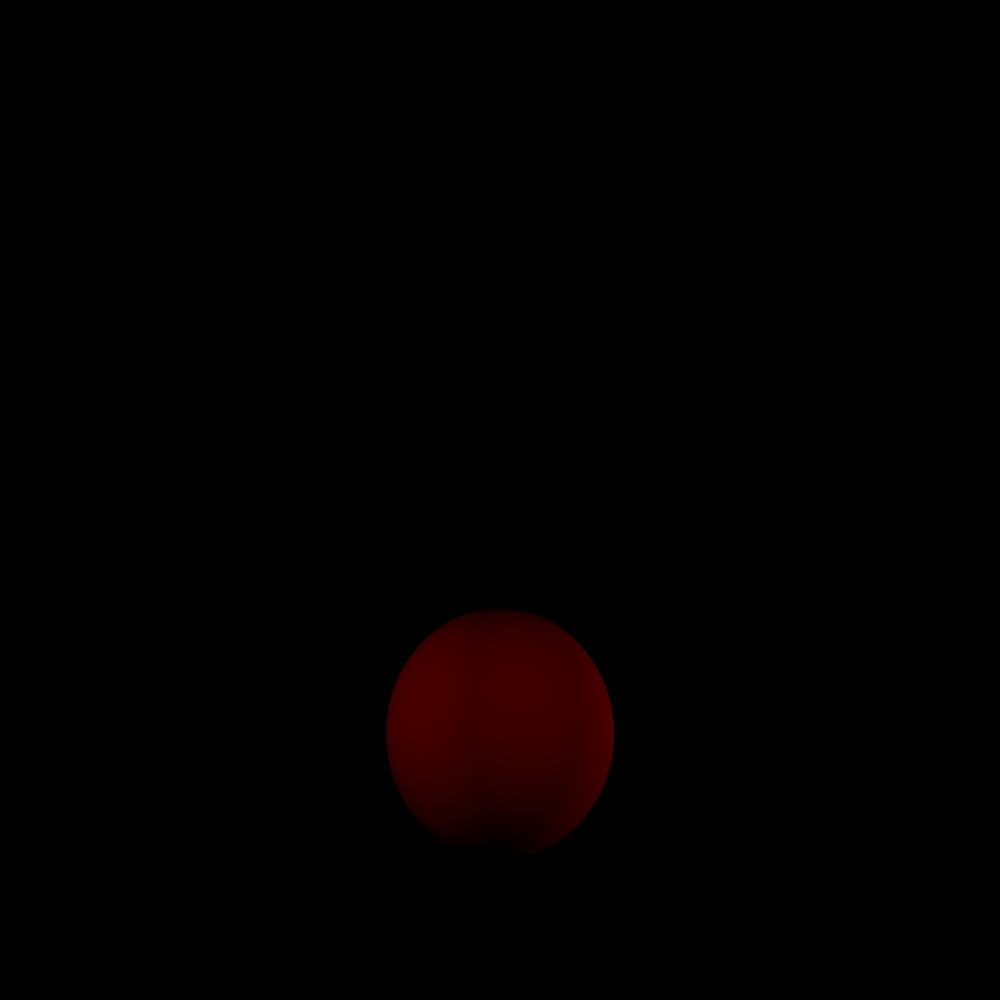
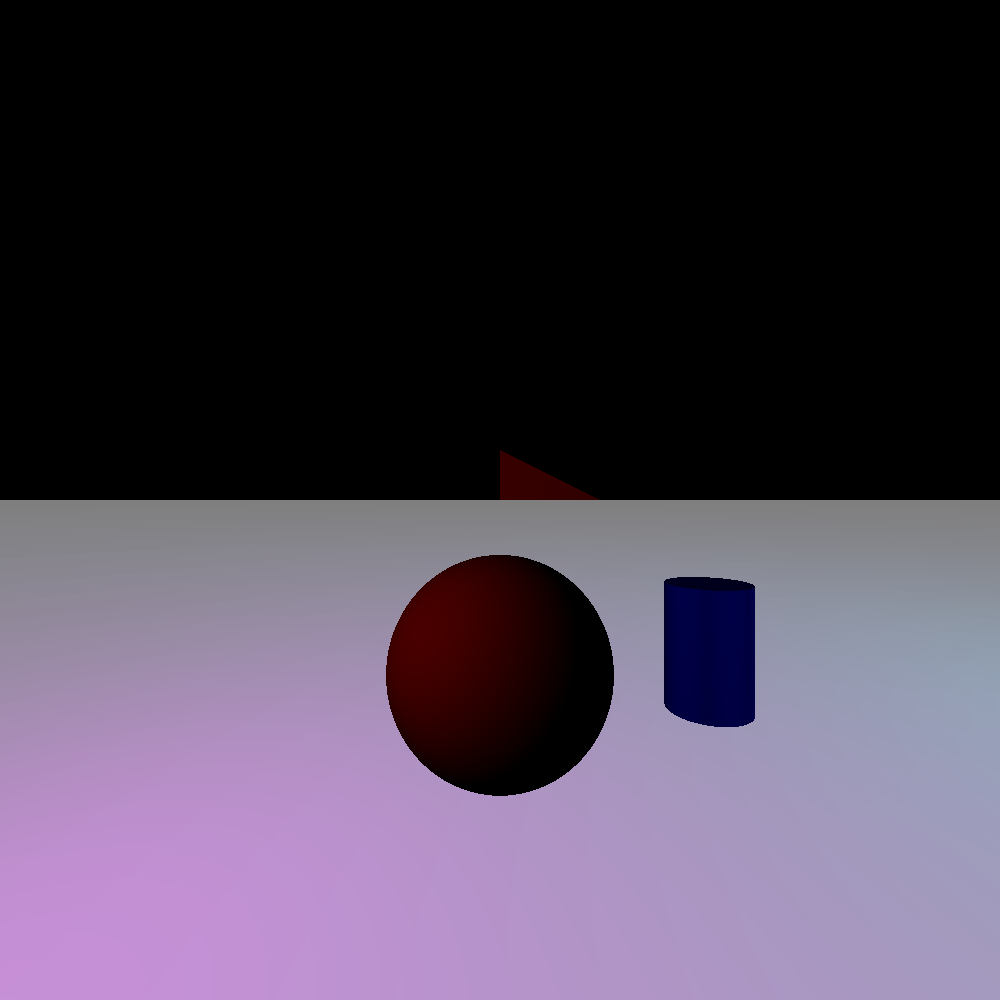
intersections werken overal

diff --git a/src/main/Renderer.java b/src/main/Renderer.java
@@ -24,6 +24,7 @@ import shape.Intersection;
 import shape.Plane;
 import shape.Shape;
 import shape.Sphere;
+import shape.Triangle;
 import camera.PerspectiveCamera;
 
 /**
@@ -79,7 +80,7 @@ public class Renderer {
 
 		// initialize the camera
 		PerspectiveCamera camera = new PerspectiveCamera(width, height,
-				new Point(0,1,0), new Vector(0, 0, 1), new Vector(0, 1, 0), 90);
+				new Point(), new Vector(0, 0, 1), new Vector(0, 1, 0), 90);
 
 		// initialize the graphical user interface
 		ImagePanel panel = new ImagePanel(width, height);
@@ -98,7 +99,7 @@ public class Renderer {
 		Transformation t1 = Transformation.createTranslation(0, -1, 1);
 		Transformation tc = Transformation.createTranslation(0, 0, 10).append(
 				Transformation.createRotationX(-45));
-		Transformation ts = Transformation.createTranslation(-2.0, 0.0, 10);
+		Transformation ts = Transformation.createTranslation(0.0, 0.0, 10);
 		Transformation tt = Transformation.createTranslation(0.0, -3.0, 9);
 		Transformation t2 = Transformation.createTranslation(0, -4, 10);
 		Transformation t3 = Transformation.createTranslation(-4, -4, 3);
@@ -107,16 +108,16 @@ public class Renderer {
 		Transformation t6 = Transformation.createTranslation(5, -5, 12);
 		List<Shape> shapes = new ArrayList<Shape>();
 		List<PointLight> lights = new ArrayList<PointLight>();
-		PointLight light = new PointLight(new Point(20.0, 1.0, 4.0), Color.WHITE);
-		PointLight light2 = new PointLight(new Point(-5.0, 1.0, 4.0), Color.WHITE);
+		PointLight light = new PointLight(new Point(20.0, 1.0, 4.0), Color.CYAN);
+		PointLight light2 = new PointLight(new Point(-5.0, 1.0, 4.0), Color.MAGENTA);
 		shapes.add(new Sphere(tt, 2, d1));
 //		 shapes.add(new Sphere(tt, 3,d2));
 //		 shapes.add(new Sphere(t2, 3, d2));
 //		 shapes.add(new Sphere(t4, 4, d2));
 		// shapes.add(new Sphere(t5, 4));
-//		shapes.add(new Plane(new Vector(0.0, 1.0, 0.0), d3, new Point(0.0,-5.0,0.0),id));
-//		shapes.add(new Triangle(id, new Point(0.0,0.0,3.0), new Point(0.0, 1.0, 3.0), new Point(1.0, 0.0, 0.0), d1));
-//		shapes.add(new Cylinder(t6, d2, 3, 1));
+		shapes.add(new Plane(new Vector(0.0, 1.0, 0.0), d3, new Point(0.0,-5.0,0.0),id));
+		shapes.add(new Triangle(ts, new Point(0.0,0.0,0.0), new Point(0.0, 1.0, 0.0), new Point(1.0, 0.0, 0.0), d1));
+		shapes.add(new Cylinder(t6, d2, 3, 1));
 		lights.add(light);
 		lights.add(light2);
 
@@ -132,7 +133,7 @@ public class Renderer {
 				for (Shape shape : shapes) {
 					Intersection intersection = shape.intersect(ray);
 					Double t = intersection.getT();
-					if (!t.equals(-1.0)) {
+					if (t+1 > 0.000001) {
 						hit = true;
 						if (t < min) {
 							min = t;
@@ -140,12 +141,12 @@ public class Renderer {
 						}
 					}
 				}
-
 				if (hit) {
 //					Point hitPoint = ray.origin.add(ray.direction.scale(min));
 					color = hitIntersection.getColor(lights);
 					panel.set(x, y, 255, color.getRed(), color.getGreen(), color.getBlue());
 				} else {
+					System.err.println("NOTHIGN WAS HIT");
 					panel.set(x, y, 255, 0, 0, 0);
 				}
 			}

diff --git a/src/shape/Cylinder.java b/src/shape/Cylinder.java
@@ -26,10 +26,10 @@ public class Cylinder implements Shape {
 	}
 
 	@Override
-	public Double intersect(Ray ray) {
+	public Intersection intersect(Ray ray) {
 		System.out.println("INTERSECTIN");
 		Ray transformed = transformation.transformInverse(ray);
-		
+		Double intersection;
 		Vector dir = transformed.direction;
 
 		Vector o = transformed.origin.toVector3D();
@@ -40,7 +40,7 @@ public class Cylinder implements Shape {
 		
 		double d = b * b - 4.0 * a * c;
 		if (d < 0) {
-			return -1.0;
+			intersection = -1.0;
 		}
 		double dr = Math.sqrt(d);
 		
@@ -69,26 +69,22 @@ public class Cylinder implements Shape {
 		
 		
 		if(hitShell){
-			return t0;
-		}
-		if(hitTop & hitBottom) {
+			intersection = t0;
+		} else if(hitTop & hitBottom) {
 			if(hitTopPlane < hitBottomPlane) {
-				return hitTopPlane > 0 ? hitTopPlane : -1.0;
+				intersection = hitTopPlane > 0 ? hitTopPlane : -1.0;
+			} else {
+				intersection = hitBottomPlane > 0 ? hitBottomPlane : -1.0;
 			}
-			return hitBottomPlane > 0 ? hitBottomPlane : -1.0;
 		} else if(hitBottom) {
-			return hitTopPlane > 0 ? hitTopPlane : -1.0;
+			intersection =  hitTopPlane > 0 ? hitTopPlane : -1.0;
 		} else if(hitTop) {
-			return hitTopPlane > 0 ? hitTopPlane : -1.0;
+			intersection =  hitTopPlane > 0 ? hitTopPlane : -1.0;
+		} else {
+			intersection =  -1.0;
 		}
-		return -1.0;
-	}
-
-
-	@Override
-	public Color getColor(Ray ray, List<PointLight> lights, List<Shape> shapes, Point p) {
-		Point trans = transformation.transformInverse(p);
-		Vector normal = null;
+		Point hitPoint = ray.origin.add(ray.direction.scale(intersection));
+		Point trans = transformation.transformInverse(hitPoint);
 		if(Math.abs(trans.y-height) < EPSILON) {
 			normal = new Vector(0.0,1.0,0.0);
 		} else if(Math.abs(trans.y) < EPSILON) {
@@ -98,7 +94,24 @@ public class Cylinder implements Shape {
 		}
 		normal = transformation.inverseTransposeTransform(normal);
 		transformation.getInverseTransformationMatrix().transpose();
-		return this.shading.getColor(ray, lights,shapes, p, normal, this);
+		return new Intersection(hitPoint, ray, shading, normal, intersection);
 	}
+
+
+//	@Override
+//	public Color getColor(Ray ray, List<PointLight> lights, List<Shape> shapes, Point p) {
+//		Point trans = transformation.transformInverse(p);
+//		Vector normal = null;
+//		if(Math.abs(trans.y-height) < EPSILON) {
+//			normal = new Vector(0.0,1.0,0.0);
+//		} else if(Math.abs(trans.y) < EPSILON) {
+//			normal = new Vector(0.0,1.0,0.0);
+//		} else {
+//			normal = new Vector(trans.x,0.0, trans.z);
+//		}
+//		normal = transformation.inverseTransposeTransform(normal);
+//		transformation.getInverseTransformationMatrix().transpose();
+//		return this.shading.getColor(ray, lights,shapes, p, normal, this);
+//	}
 
 }

diff --git a/src/shape/Triangle.java b/src/shape/Triangle.java
@@ -38,20 +38,24 @@ public class Triangle implements Shape {
 	}
 
 	@Override
-	public Double intersect(Ray ray) {
+	public Intersection intersect(Ray ray) {
 		Ray transformed = transformation.transformInverse(ray);
 		
 		Vector o = transformed.origin.toVector3D();
 		
 		Double t = -(o.subtract(point1.toVector3D()).dot(normal)/(transformed.direction.dot(normal)));
-		
+		Double intersection;
 		Point p = transformed.origin.add(transformed.direction.scale(t));
 		System.out.println(p);
 		
 		if(isInTriangle(p)){
-			return t;
+			intersection = t;
+		} else {
+			intersection =  -1.0;
 		}
-		return -1.0;
+		Point hitPoint = ray.origin.add(ray.direction.scale(t));
+		Vector newNormal = transformation.inverseTransposeTransform(normal);
+		return new Intersection(hitPoint, ray, color, newNormal, intersection);
 	}
 
 	/**
@@ -78,10 +82,10 @@ public class Triangle implements Shape {
 		return alpha <= 1 && alpha >= EPSILON && (beta <= 1) && beta >= EPSILON && (gamma <= 1) && gamma >= EPSILON;
 	}
 
-	@Override
-	public Color getColor(Ray ray, List<PointLight> lights, List<Shape> shapes,  Point p) {
-		Vector newNormal = transformation.inverseTransposeTransform(normal);
-		System.out.println(normal+"NORMAL");
-		return this.color.getColor(ray, lights,shapes, p, newNormal, this);
-	}
+//	@Override
+//	public Color getColor(Ray ray, List<PointLight> lights, List<Shape> shapes,  Point p) {
+//		Vector newNormal = transformation.inverseTransposeTransform(normal);
+//		System.out.println(normal+"NORMAL");
+//		return this.color.getColor(ray, lights,shapes, p, newNormal, this);
+//	}
 }

diff --git a/src/shape/Plane.java b/src/shape/Plane.java
@@ -1,9 +1,5 @@
 package shape;
 
-import java.awt.Color;
-import java.util.List;
-
-import light.PointLight;
 import math.Point;
 import math.Ray;
 import math.Transformation;
@@ -26,21 +22,25 @@ public class Plane implements Shape {
 	}
 	
 	@Override
-	public Double intersect(Ray ray) {
+	public Intersection intersect(Ray ray) {
 		Ray transformed = transformation.transformInverse(ray);
 		Double t = (point.toVector3D().subtract(transformed.origin.toVector3D()).dot(normal))/(transformed.direction.dot(normal));
-		
+		Double intersection;
 		if(t >=  EPSILON) {
-			return t;
+			intersection =  t;
+		}else {
+			System.err.println("PLANE NOT HIT");
+			intersection = -1.0;
 		}
-		return -1.0;
+		Point hitPoint = ray.origin.add(ray.direction.scale(intersection));
+		Vector newNormal = transformation.inverseTransposeTransform(this.normal);
+		return new Intersection(hitPoint, ray, shading, newNormal, t);
+//		
 	}
 
-	@Override
-	public Color getColor(Ray ray, List <PointLight> lights, List<Shape> shapes, Point p) {
-		
-		Vector newNormal = transformation.inverseTransposeTransform(this.normal);
-		
-		return this.shading.getColor(ray, lights,shapes, p, newNormal, this);
-	}
+//	@Override
+//	public Color getColor(Ray ray, List <PointLight> lights, List<Shape> shapes, Point p) {
+//		
+//		
+//	}
 }
